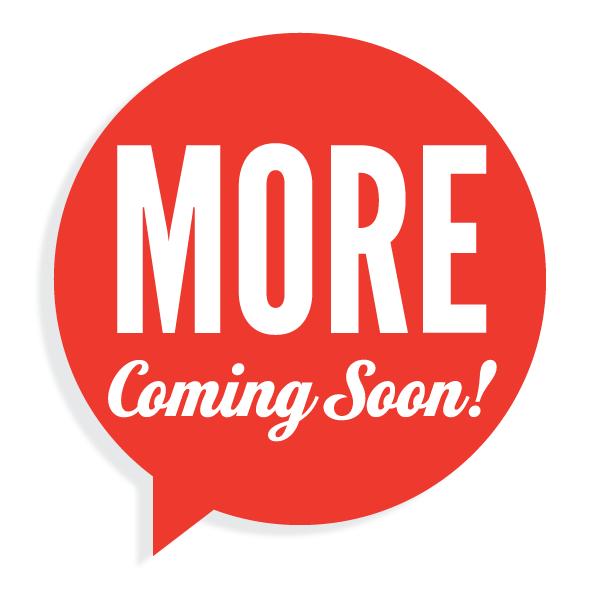
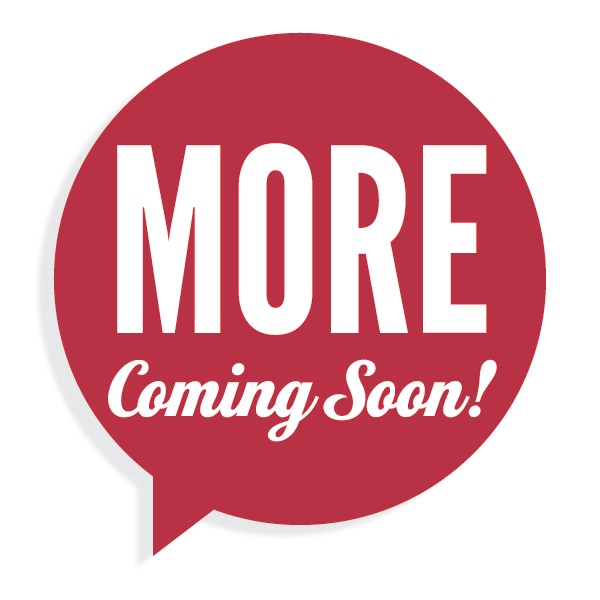
update branding color

diff --git a/public/css/main.css b/public/css/main.css
@@ -5,7 +5,7 @@
 .clearfix:after { clear: both; }
 
 body {
-	background: #f24333;
+	background: #a51c30;
 	color: #fff;
 	font-size: 100%;
 	line-height: 1.25;
